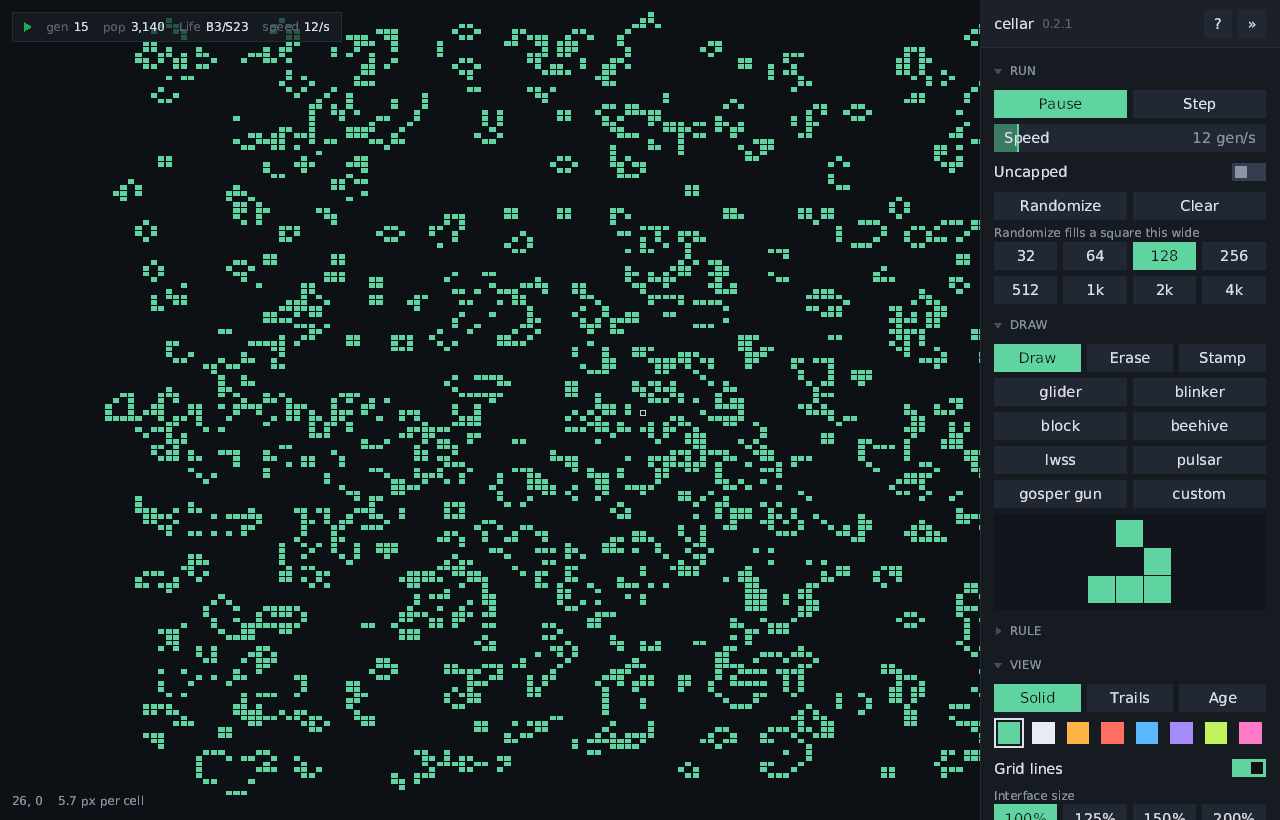
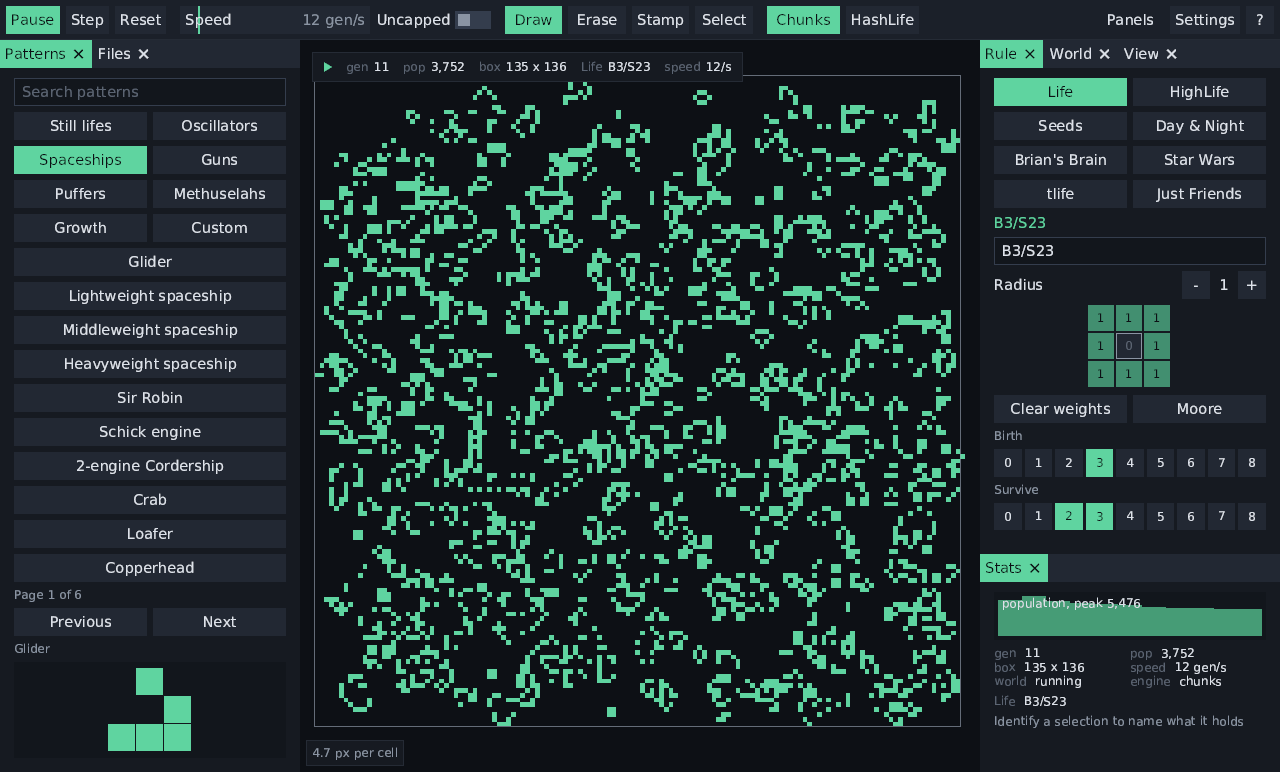
docs(#154): describe the toolbar and the docked panels

diff --git a/README.md b/README.md
@@ -4,7 +4,7 @@ An interactive cellular-automata editor and visualizer written in
 [Mach](https://github.com/briar-systems/mach), built on the
 [boom](https://github.com/briar-systems/boom) engine.
 
-![cellar running Life, with its side panel](doc/screenshot.png)
+![cellar running Life, with its toolbar and docked panels](doc/screenshot.png)
 
 The world is unbounded: a sparse pool of 64 by 64 chunks that holds only the
 regions with live cells and their neighbours, growing in any direction. It is
@@ -100,7 +100,7 @@ dropped.
 | `F`                      | frame the randomize area                                         |
 | `M`                      | next colour mode                                                 |
 | `G`                      | grid lines                                                       |
-| `Tab`                    | hide / show the panel                                            |
+| `Tab`                    | hide / show the panels                                           |
 | `H`, `F1`                | key reference                                                    |
 | `F11`                    | toggle borderless fullscreen                                     |
 | `F12`                    | screenshot                                                       |
@@ -113,38 +113,48 @@ where play started, and undo or redo while running pauses first. Any new
 change clears what could be redone.
 
 A readout of the generation, population, rule and speed sits in the top-left
-corner, and the side panel groups every control by task:
+corner of the world. A toolbar runs across the top, and the panels are docked
+at the sides, grouped by purpose:
 
-- **run**: play, step, speed, uncapped stepping, randomize and clear, the
-  area randomize fills, from 32 to 4096 cells square, and the engine: the chunk
-  pool, or HashLife where the rule allows, with its step of 2^k generations
-  and a generation to go straight to, and the ceilings a run pauses at
-- **draw**: the tool, with a rule of more than two states the state the pen
-  and the custom pattern's editor paint, each in the rule's colour for it, a
-  library of about three hundred classic patterns (still lifes, oscillators,
-  spaceships, guns, puffers, methuselahs and growth) to browse by category or
-  search by name, a custom pattern drawn in place, and a preview of the
-  selected one, and with the select tool the operations on the selection.
-  copying or cutting a selection makes it the custom pattern and arms the
-  stamp. The library's sources are listed in
+- **toolbar**: play, step, reset, speed and uncapped stepping, the tool (draw,
+  erase, stamp, select), with a rule of more than two states the state the pen
+  and the custom pattern's editor paint, each in the rule's colour for it, the
+  engine: the chunk pool, or HashLife where the rule allows, with its step of
+  2^k generations and a generation to go straight to, the panels menu, and the
+  settings and the key reference
+- **patterns**: a library of about three hundred classic patterns (still
+  lifes, oscillators, spaceships, guns, puffers, methuselahs and growth) to
+  browse by category or search by name, a custom pattern drawn in place, and a
+  preview of the selected one. The library's sources are listed in
   [res/patterns](res/patterns/README.md)
-- **rule**: presets, the rule in B/S notation, radius, a clickable weight grid
-  whose cells cycle from 0 up to 4 and on through -4 to -1, and birth and
-  survive toggles over the reachable sums
-- **view**: colour mode (a solid colour from a set of swatches, fading trails,
-  or colour by age; a rule table's states show in its own colours in place of
-  the solid one), grid lines, and the interface size from 100 to 200 percent
 - **files**: named saves of the world and the custom pattern, a list of every
   world, pattern and `.rule` file in the data directory to load or run, and
   screenshots
+- **rule**: presets, the rule in B/S notation, radius, a clickable weight grid
+  whose cells cycle from 0 up to 4 and on through -4 to -1, and birth and
+  survive toggles over the reachable sums
+- **world**: randomize, the area it fills, from 32 to 4096 cells square, clear,
+  and the operations on a selection. Copying or cutting a selection makes it
+  the custom pattern and arms the stamp
+- **view**: colour mode (a solid colour from a set of swatches, fading trails,
+  or colour by age; a rule table's states show in its own colours in place of
+  the solid one), grid lines, and framing the randomize area
+- **stats**: the population graph, the readout in full, and what the last
+  identified selection holds
+- **settings**, a floating window closed at first: the ceilings a run pauses
+  at, and the interface size from 100 to 200 percent
+
+Each panel is a window that can be docked at either side, tabbed with another,
+floated or closed, and the panels menu reopens a closed one or resets the
+layout. The layout is kept with the settings.
 
 Settings and the rule are kept between runs. They, saved worlds and patterns,
 and screenshots live in the platform's user data directory:
 `$XDG_DATA_HOME/cellar` (or `~/.local/share/cellar`) on linux,
 `~/Library/Application Support/cellar` on macOS and `%APPDATA%\cellar` on
-windows. The engine chosen in the run section and HashLife's step exponent are
+windows. The engine chosen in the toolbar and HashLife's step exponent are
 kept too. `--engine` overrides the saved engine for that run and leaves the
-saved choice alone until the panel changes it, and a saved HashLife that cannot
+saved choice alone until the toolbar changes it, and a saved HashLife that cannot
 run the loaded rule starts on the chunk engine with a message. The first run
 brings over anything an older version left in
 `arrangements/` in the working directory.
@@ -152,7 +162,7 @@ brings over anything an older version left in
 A run pauses with a message when it crosses a ceiling: a population, chunks of
 the pool in use (20,000 by default), the memory HashLife's nodes take (500 MiB
 by default, collected before it counts), or the time one step takes. Each is
-switched on or off in the run section and kept with the settings. Playing on
+switched on or off in the settings and kept with them. Playing on
 carries the run past the ceiling it paused at, which stays quiet until the world
 falls back under it.
 
